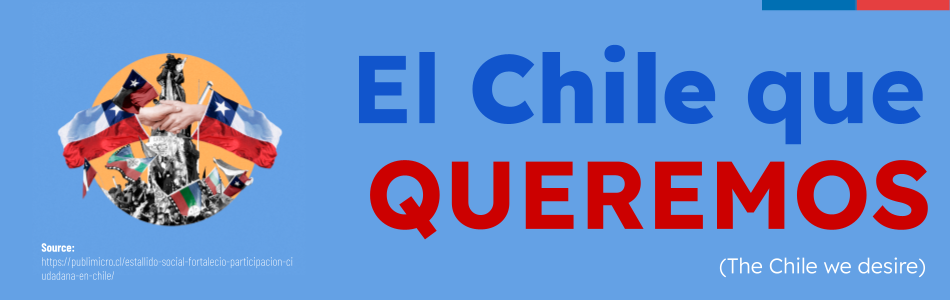
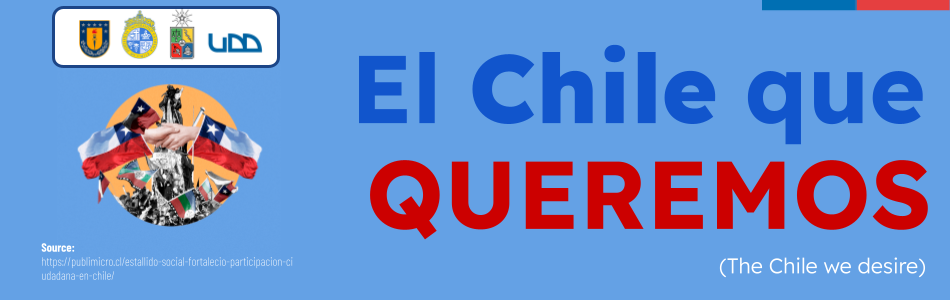
ecqq

Changed region(s): [[0.0305, 0.0, 0.3053, 0.75]]

diff --git a/markdown/ecqq.md b/markdown/ecqq.md
@@ -1,24 +1,13 @@
 <p align="center">
-<img title="a title" alt="Alt text" src="https://github.com/cridonoso/cridonoso.github.io/blob/master/figures/exoplanet/banner.png?raw=true" width=700 height=220></p>
+<img title="a title" alt="Alt text" src="https://github.com/cridonoso/cridonoso.github.io/blob/master/figures/ecqq/banner.png?raw=true" width=1000 height=320></p>
 
- ## <p style="text-align: left;">Using Deep Learning to detect faint exo-planets</p>
+ ## <p style="text-align: center;"> Describing citizen surveys using text anylisis</p>
 
-<b>Finding planets outside our solar system is very hard because the stars they orbit are much brighter</b>. Scientists use special tools to make the stars look dimmer and see the planets. However, these tools are not enough to detect exo-planets. 
 
-Post-processing techniques are essential for identifying faint exoplanet candidates within noisy astronomical data. Advanced computer vision models, such as <b>convolutional neural networks (CNNs), can be applied to these processed images to enhance detection sensitivity and reduce false positives</b>. 
+El Chile Que Queremos (ECQQ, from the Spanish 'The Chile we desire') was a [governmental initiative](https://www.gob.cl/noticias/gobierno-presenta-el-chile-que-queremos-iniciativa-de-dialogos-y-escucha-social-para-avanzar-en-nuevas-propuestas-para-el-pais/) launched by the <b>Chilean Ministry of Social Development and Sciences</b> in response to the widespread demonstrations of 2019. 
 
-By leveraging these powerful tools, we can significantly increase the number of exoplanet discoveries, expanding our understanding of planetary formation, evolution, and the potential for extraterrestrial life.
+The initiative aimed to <b>gather and analyze citizen perspectives on the nation's future</b>, seeking to understand the deep-seated concerns and aspirations that fueled the social unrest. 
 
-> In this project, <b> we propose to develop a general neural network model capable of learning from diverse exoplanetary systems</b>. By training this model on a variety of planetary configurations, we aim to enhance its ability to detect exoplanets in novel observational datasets.
+The Ministry conducted extensive citizen surveys to collect data on various topics such as <i>education, healthcare, economic development, and social justice</i>. 
 
-### Initial approach 
-The image below depicts <b>the PDS70 system</b>, which consists of <b>the star PDS70 and its exoplanet PDS70b</b>. 
-A <b>coronagraph</b>, a specialized tool designed to block the light from a star, was used to capture the initial image (right). However, the host star's residual light still obscured the exoplanet. To improve contrast and reveal the planet, we applied a post-processing technique called <b>Annular PCA</b>. This method reduces noise and enhances features in annular regions of the image, where exoplanets are most likely to be found.
-<p align="center">
-<img title="a title" alt="Alt text" src="https://github.com/cridonoso/cridonoso.github.io/blob/master/figures/exoplanet/pds70.png?raw=true" width=500 height=350></p>
-PDS70b is a striking example of an exoplanet. However, within the PDS70 system, there are other potential candidates that remain elusive, even after applying sophisticated post-processing techniques. These planets are extremely small and orbit a very bright star, making them difficult to detect.
-<br><br>
-Currently we are applying <b>Recurrent Convolutional Neural networks (RCNN)</b> on sets of post-processed iamges. RCNN can learn time correlations between images as well as extract features from the pixels in the frame.
-<br><br>
-
-Building on the work of [Cantero (2023)](https://www.aanda.org/articles/aa/abs/2023/12/aa46085-23/aa46085-23.html), we have developed a <b>PyTorch framework</b> that is currently undergoing review for publication within our [organization](https://github.com/yemsnucleus/).
+Universities across Chile (<i>Universidad de Concepcion, Universidad de Chile, Pontificia Universidad Católica de Chile, and Universidad del desarrollo</i>) were then tasked with analyzing and synthesizing the survey results to identify key themes and priorities
